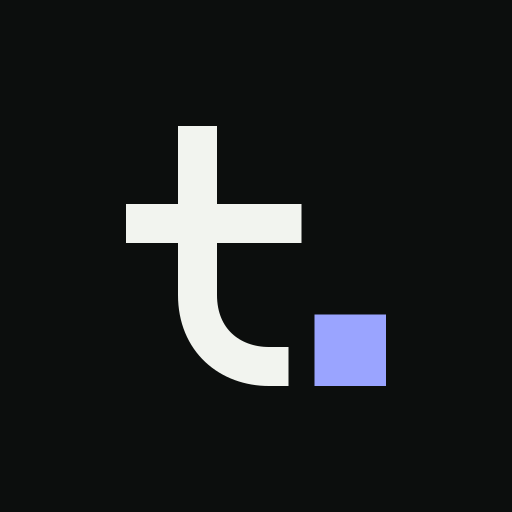
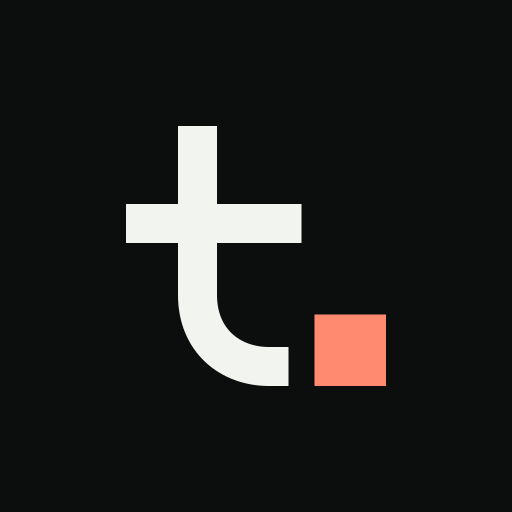
feat(brand): replace ultramarine accent with vermilion
- swap accent to #C2351F (light) / #FF8A70 (dark); keep AA contrast

- regenerate avatars, OG card, templates, credit bar, handle PNGs

- document the rationale: vermilion as editorial correction red for the full-stop mark

Changed region(s): [[0.5938, 0.5938, 0.7812, 0.7812]]

diff --git a/src/app/globals.css b/src/app/globals.css
@@ -41,7 +41,7 @@
     --muted: #e9ebe5;
     --muted-foreground: #5a605b;
     --border: #d5d8d1;
-    --accent: #2b3bff;
+    --accent: #c2351f;
     --accent-foreground: #ffffff;
   }
 
@@ -53,7 +53,7 @@
     --muted: #181c19;
     --muted-foreground: #9aa29b;
     --border: #262b27;
-    --accent: #9aa4ff;
+    --accent: #ff8a70;
     --accent-foreground: #0a0c0b;
   }
 
@@ -230,7 +230,7 @@
     --muted: #f1f2ee;
     --muted-foreground: #4a4f4b;
     --border: #c9ccc5;
-    --accent: #2b3bff;
+    --accent: #c2351f;
     --accent-foreground: #ffffff;
   }
 

diff --git a/logo-rebrand-plan.md b/logo-rebrand-plan.md
@@ -201,7 +201,7 @@ Tujuh elemen ini yang membuat orang mengenali brand tanpa membaca nama:
 | 3   | **Mono label**         | uppercase, tracking `0.14em`, 11–14px              | 1× per section/slide        |
 | 4   | **Index**              | `01 /`, `02 /` di awal label                       | 1× per section/slide        |
 | 5   | **Paper & ink**        | `#F4F5F1` / `#0C0E0D`, tanpa warna ketiga          | selalu                      |
-| 6   | **Satu accent**        | `#2B3BFF` / `#9AA4FF`                              | maksimal 1× per viewport    |
+| 6   | **Satu accent**        | `#C2351F` / `#FF8A70`                              | maksimal 1× per viewport    |
 | 7   | **Handle mono**        | `@withcakfan`, tracking `0.14em`, lowercase        | 1× di footer/end card/signature |
 
 ### 4.6 Brand architecture
@@ -314,7 +314,7 @@ Rasio yang harus dijaga saat mengubah ukuran: **stroke : tinggi visual = 1 : 6.7
     <path d="M12 7V18.5C12 22 14.5 24 17.5 24" />
     <path d="M8 13H18.5" />
   </g>
-  <rect x="21" y="20.5" width="5" height="5" fill="#2B3BFF" />
+  <rect x="21" y="20.5" width="5" height="5" fill="#C2351F" />
 </svg>
 ```
 
@@ -324,7 +324,7 @@ Varian compact (avatar, favicon, watermark) memakai `width/height 5.5` di `y 20`
 
 - Kaki lengkung memakai cubic Bézier dengan tangen horizontal di ujung, sehingga square cap tetap tegak dan baseline-nya rata.
 - Titik **selalu** `rect`, tidak pernah `circle` dan tidak pernah glyph `.`.
-- Warna mark utama: `currentColor`. Warna titik: token `--accent` (light `#2B3BFF`, dark `#9AA4FF`).
+- Warna mark utama: `currentColor`. Warna titik: token `--accent` (light `#C2351F`, dark `#FF8A70`).
 - Jangan membungkus mark dengan background kecuali pada varian app icon dan avatar.
 - Untuk konteks monokrom (watermark, print), titik memakai `fill="currentColor"` — bukan dihapus.
 
@@ -407,13 +407,15 @@ Geometri di atas sudah dikalibrasi. Saat mengubah ukuran, cek empat hal:
 
 Tidak ada token baru. Logo memakai token yang sudah ada agar tidak ada drift.
 
+**Kenapa vermilion, bukan biru.** Mark ini secara harfiah adalah tanda baca. Merah koreksi adalah warna yang dipakai penyunting untuk menandai naskah selesai — jadi accent-nya membawa makna "titik akhir", bukan sekadar "warna brand". Biru elektrik adalah accent default hampir semua produk tech: aman, tetapi tidak membedakan. Vermilion juga tetap terbaca sebagai sinyal di antara paper dan ink tanpa perlu warna kedua.
+
 | Elemen          | Light     | Dark      | Token               |
 | --------------- | --------- | --------- | ------------------- |
 | Batang & palang | `#0C0E0D` | `#F2F4EF` | `--foreground`      |
-| Titik           | `#2B3BFF` | `#9AA4FF` | `--accent`          |
+| Titik           | `#C2351F` | `#FF8A70` | `--accent`          |
 | Tile app icon   | `#0C0E0D` | `#0C0E0D` | selalu ink          |
 | Mark di tile    | `#F2F4EF` | `#F2F4EF` | paper               |
-| Titik di tile   | `#9AA4FF` | `#9AA4FF` | accent dark         |
+| Titik di tile   | `#FF8A70` | `#FF8A70` | accent dark         |
 | Watermark foto  | `#F4F5F1` | `#F4F5F1` | paper, 88–92%       |
 | Credit bar      | `#F4F5F1` | `#F4F5F1` | paper (selalu terang) |
 
@@ -421,7 +423,7 @@ Tidak ada token baru. Logo memakai token yang sudah ada agar tidak ada drift.
 
 - Pada background accent, seluruh mark memakai `--accent-foreground` (monokrom). Titik tidak boleh accent di atas accent.
 - Kontras batang minimal 4.5:1 terhadap background.
-- Titik accent pada light `#2B3BFF` di atas paper lolos AA; pada dark pakai `#9AA4FF`.
+- Titik accent pada light `#C2351F` di atas paper lolos AA; pada dark pakai `#FF8A70`.
 - App icon dan avatar selalu memakai tile gelap, di tema apa pun, agar dikenali sama di semua tab dan platform.
 - Di atas foto, hanya paper/ink. Accent dilarang karena kontras tidak bisa dijamin.
 
@@ -657,7 +659,7 @@ Satu file sumber `1024×1024` cukup; turunkan ukurannya per platform dari file y
 | Background       | ink `#0C0E0D`, full-bleed (tanpa radius) |
 | Skala mark       | `26×` dari grid 32 → bbox 520 px (50.8%) |
 | Posisi           | `translate(83, 109)` sebelum scale     |
-| Titik            | compact `5.5 × 5.5` di `y 20`, accent dark `#9AA4FF` |
+| Titik            | compact `5.5 × 5.5` di `y 20`, accent dark `#FF8A70` |
 | Lingkaran aman   | diameter `0.84 × 1024` (861 px)        |
 | Clear space      | ≥ 8% diameter                          |
 
@@ -674,7 +676,7 @@ Satu file sumber `1024×1024` cukup; turunkan ukurannya per platform dari file y
       <path d="M12 7V18.5C12 22 14.5 24 17.5 24" />
       <path d="M8 13H18.5" />
     </g>
-    <rect x="21" y="20" width="5.5" height="5.5" fill="#9AA4FF" />
+    <rect x="21" y="20" width="5.5" height="5.5" fill="#FF8A70" />
   </g>
 </svg>
 ```
@@ -683,9 +685,9 @@ Satu file sumber `1024×1024` cukup; turunkan ukurannya per platform dari file y
 
 | Varian   | Background | Mark       | Titik      | Pakai untuk                                   |
 | -------- | ---------- | ---------- | ---------- | --------------------------------------------- |
-| **Ink** (kanonik) | `#0C0E0D` | `#F2F4EF` | `#9AA4FF` | semua platform, semua tema — **default** |
-| Paper    | `#F4F5F1`  | `#0C0E0D` | `#2B3BFF` | konteks cetak/terang, slide, email header      |
-| Accent   | `#2B3BFF`  | `#FFFFFF` | `#FFFFFF` | kampanye/OG saja, **bukan** avatar profil      |
+| **Ink** (kanonik) | `#0C0E0D` | `#F2F4EF` | `#FF8A70` | semua platform, semua tema — **default** |
+| Paper    | `#F4F5F1`  | `#0C0E0D` | `#C2351F` | konteks cetak/terang, slide, email header      |
+| Accent   | `#C2351F`  | `#FFFFFF` | `#FFFFFF` | kampanye/OG saja, **bukan** avatar profil      |
 | Mono     | transparan | `currentColor` | `currentColor` | watermark, footer dokumen              |
 
 **Aturan:**
@@ -783,7 +785,7 @@ Dipakai sebagai `<img>`/komponen dengan `color` diatur per konteks. Titik **sela
 | Hairline atas   | `1px` `#D5D8D1`                        |
 | Mark            | `32×32`, ink, titik `currentColor`     |
 | Handle          | §10.2 varian **plain** (tanpa kotak), `20 px` — accent sudah diwakili kotak kanan |
-| Kotak accent    | `8×8`, `#2B3BFF`, `64 px` dari kanan   |
+| Kotak accent    | `8×8`, `#C2351F`, `64 px` dari kanan   |
 | Padding kiri    | `64 px`                                |
 
 Credit bar dipakai di **semua slide tengah** carousel. Slide pertama memakai W3, slide terakhir W3 + satu CTA.
@@ -794,8 +796,8 @@ Credit bar dipakai di **semua slide tengah** carousel. Slide pertama memakai W3,
 | --------------------- | --------------- | ------------------ | -------- |
 | Foto gelap/ramai      | paper `#F4F5F1` | paper (monokrom)   | `90%`    |
 | Foto terang           | ink `#0C0E0D`   | ink (monokrom)     | `90%`    |
-| Bidang paper          | ink             | accent `#2B3BFF`   | `100%`   |
-| Bidang ink            | paper           | accent `#9AA4FF`   | `100%`   |
+| Bidang paper          | ink             | accent `#C2351F`   | `100%`   |
+| Bidang ink            | paper           | accent `#FF8A70`   | `100%`   |
 | Screenshot produk     | paper atau ink  | monokrom           | `88%`    |
 
 Cara memilih: lihat 4 sudut, pilih sudut dengan detail paling sedikit. Jika keempat sudut ramai, **jangan** memaksa W1 — pakai W2 yang menyediakan bidang bersih.
@@ -1065,7 +1067,7 @@ export default function Lockup({
     <path d="M12 8V18.5C12 21.5 14 23.5 16 23.5" />
     <path d="M8.5 13H18.5" />
   </g>
-  <rect x="21" y="20.25" width="4.5" height="4.5" fill="#9AA4FF" />
+  <rect x="21" y="20.25" width="4.5" height="4.5" fill="#FF8A70" />
 </svg>
 ```
 

diff --git a/brand-guidelines.md b/brand-guidelines.md
@@ -53,7 +53,7 @@ Kaki lengkung dipakai agar bentuknya terbaca sebagai `t` dan tidak terbaca sebag
 
 **Aturan mark**
 
-- Batang dan palang selalu `currentColor`. Titik selalu accent (`#2B3BFF` / `#9AA4FF`).
+- Batang dan palang selalu `currentColor`. Titik selalu accent (`#C2351F` / `#FF8A70`).
 - Ukuran minimum `16 px`. Di bawah itu pakai titik compact (`5.5 × 5.5`) atau jangan pakai mark sama sekali.
 - Clear space minimal satu titik di semua sisi; jangan menempelkan mark ke tepi container.
 - Di dalam lockup, titik mark memakai `currentColor` — accent hanya di wordmark.
@@ -71,7 +71,9 @@ Kaki lengkung dipakai agar bentuknya terbaca sebagai `t` dan tidak terbaca sebag
 
 ## 3. Warna
 
-Satu palet cool-neutral + satu accent ultramarine. Tidak ada warna kedua untuk kategori atau tag.
+Satu palet cool-neutral + satu accent vermilion. Tidak ada warna kedua untuk kategori atau tag.
+
+Vermilion dipilih karena mark ini adalah **tanda baca**: merah koreksi adalah warna yang dipakai penyunting untuk menandai halaman selesai — "titik akhir" dalam arti harfiah. Biru sengaja dihindari karena sudah menjadi accent default semua produk tech, sehingga melemahkan diferensiasi.
 
 | Token                 | Light     | Dark      | Fungsi                  |
 | --------------------- | --------- | --------- | ----------------------- |
@@ -81,7 +83,7 @@ Satu palet cool-neutral + satu accent ultramarine. Tidak ada warna kedua untuk k
 | `--muted`             | `#E9EBE5` | `#181C19` | Hover, surface sekunder |
 | `--muted-foreground`  | `#5A605B` | `#9AA29B` | Teks sekunder           |
 | `--border`            | `#D5D8D1` | `#262B27` | Garis & border          |
-| `--accent`            | `#2B3BFF` | `#9AA4FF` | Signal color            |
+| `--accent`            | `#C2351F` | `#FF8A70` | Signal color            |
 | `--accent-foreground` | `#FFFFFF` | `#0A0C0B` | Teks di atas accent     |
 
 **Aturan pemakaian accent**
@@ -95,8 +97,8 @@ Gunakan `text-accent` / `bg-accent` hanya untuk:
 
 Jangan memakai accent untuk: heading besar, body text, border massal, background section, atau tag.
 
-- Accent light `#2B3BFF` di atas `#F4F5F1` lolos WCAG AA untuk teks normal.
-- Di dark mode gunakan `#9AA4FF`; jangan menurunkan opacity accent hingga di bawah 4.5:1.
+- Accent light `#C2351F` di atas `#F4F5F1` lolos WCAG AA untuk teks normal.
+- Di dark mode gunakan `#FF8A70`; jangan menurunkan opacity accent hingga di bawah 4.5:1.
 - Tidak ada gradient dekoratif, glow, glassmorphism, atau warna kedua.
 
 ---
@@ -236,9 +238,9 @@ Avatar adalah logo yang paling sering dilihat dan paling jarang diperhatikan. Ka
 
 | Varian            | Background | Mark       | Titik      | Pakai                                   |
 | ----------------- | ---------- | ---------- | ---------- | --------------------------------------- |
-| **Ink** (kanonik) | `#0C0E0D`  | `#F2F4EF`  | `#9AA4FF`  | semua platform, semua tema — default    |
-| Paper             | `#F4F5F1`  | `#0C0E0D`  | `#2B3BFF`  | cetak, slide, email header              |
-| Accent            | `#2B3BFF`  | `#FFFFFF`  | `#FFFFFF`  | kampanye saja — **bukan** avatar profil |
+| **Ink** (kanonik) | `#0C0E0D`  | `#F2F4EF`  | `#FF8A70`  | semua platform, semua tema — default    |
+| Paper             | `#F4F5F1`  | `#0C0E0D`  | `#C2351F`  | cetak, slide, email header              |
+| Accent            | `#C2351F`  | `#FFFFFF`  | `#FFFFFF`  | kampanye saja — **bukan** avatar profil |
 | Mono              | transparan | `currentColor` | `currentColor` | watermark, footer dokumen          |
 
 **Geometri kanonik** (`1024 × 1024`, full-bleed tanpa radius)
@@ -249,7 +251,7 @@ Avatar adalah logo yang paling sering dilihat dan paling jarang diperhatikan. Ka
     <path d="M12 7V18.5C12 22 14.5 24 17.5 24" />
     <path d="M8 13H18.5" />
   </g>
-  <rect x="21" y="19.5" width="5.5" height="5.5" fill="#9AA4FF" />
+  <rect x="21" y="19.5" width="5.5" height="5.5" fill="#FF8A70" />
 </g>
 ```
 
@@ -296,8 +298,8 @@ Watermark adalah **kredit teknis**, bukan stempel: ada saat dicari, hilang saat 
 | ---------------- | --------- | ---------------- | ------- |
 | Foto gelap/ramai | `#F4F5F1` | monokrom         | `90%`   |
 | Foto terang      | `#0C0E0D` | monokrom         | `90%`   |
-| Bidang paper     | ink       | accent `#2B3BFF` | `100%`  |
-| Bidang ink       | paper     | accent `#9AA4FF` | `100%`  |
+| Bidang paper     | ink       | accent `#C2351F` | `100%`  |
+| Bidang ink       | paper     | accent `#FF8A70` | `100%`  |
 
 **Aturan**
 

diff --git a/public/brand/social/README.md b/public/brand/social/README.md
@@ -8,8 +8,8 @@ Sumber tunggal untuk avatar, watermark, dan template Instagram. SVG adalah sumbe
 | ------- | --------- | ------------------------------------------ |
 | Ink     | `#0C0E0D` | teks utama, mark di bidang terang          |
 | Paper   | `#F4F5F1` | background template, mark di bidang gelap  |
-| Accent  | `#2B3BFF` | satu kotak accent di bidang terang         |
-| Accent+ | `#9AA4FF` | accent di bidang ink / avatar              |
+| Accent  | `#C2351F` | satu kotak accent di bidang terang         |
+| Accent+ | `#FF8A70` | accent di bidang ink / avatar              |
 | Muted   | `#5A605B` | label, URL, teks sekunder di paper         |
 | Muted+  | `#A8AEA8` | teks sekunder di ink                       |
 | Hairline| `#D5D8D1` | garis 1 px di paper                        |
